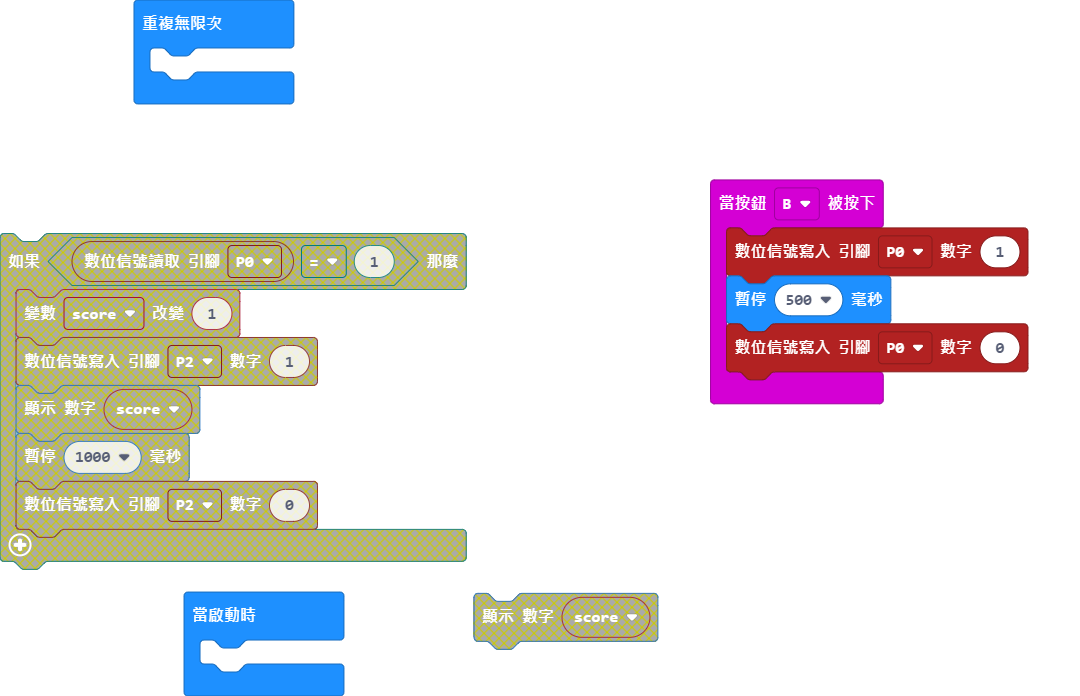
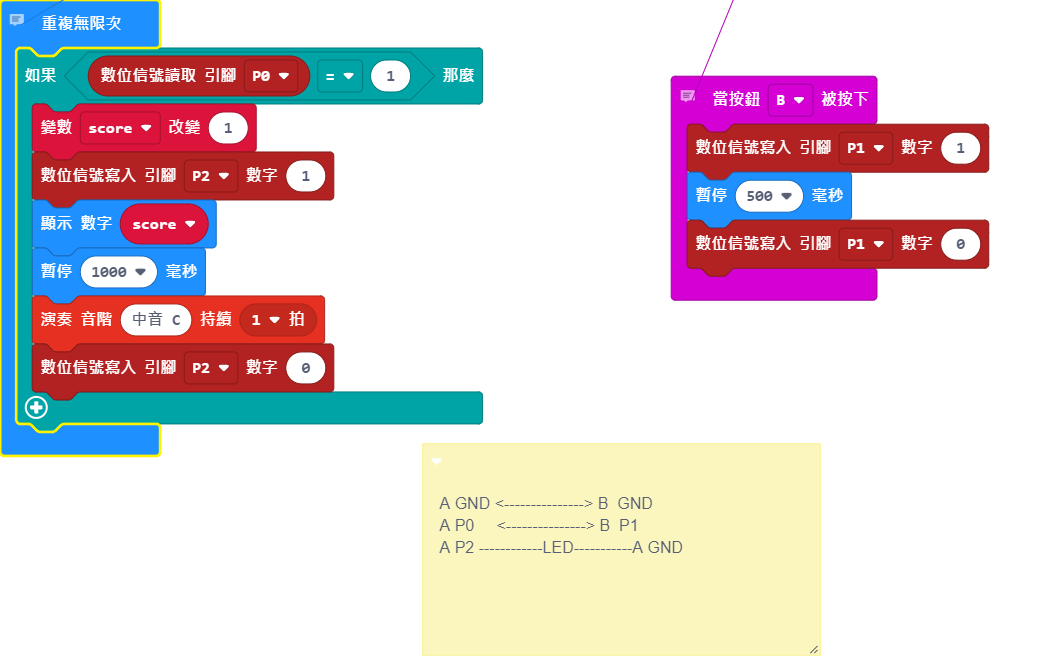
更新 main.blocks, main.ts

diff --git a/main.ts b/main.ts
@@ -1,8 +1,25 @@
+let score = 0
+// 記分員 micro:bitB
 input.onButtonPressed(Button.B, function () {
-    pins.digitalWritePin(DigitalPin.P0, 1)
+    pins.digitalWritePin(DigitalPin.P1, 1)
     basic.pause(500)
-    pins.digitalWritePin(DigitalPin.P0, 0)
+    pins.digitalWritePin(DigitalPin.P1, 0)
 })
+/**
+ * A GND <---------------> B  GND
+ * 
+ * A P0     <---------------> B  P1
+ * 
+ * A P2 ------------LED-----------A GND
+ */
+// 記分板micro:bitA
 basic.forever(function () {
-	
+    if (pins.digitalReadPin(DigitalPin.P0) == 1) {
+        score += 1
+        pins.digitalWritePin(DigitalPin.P2, 1)
+        basic.showNumber(score)
+        basic.pause(1000)
+        music.playTone(262, music.beat(BeatFraction.Whole))
+        pins.digitalWritePin(DigitalPin.P2, 0)
+    }
 })
